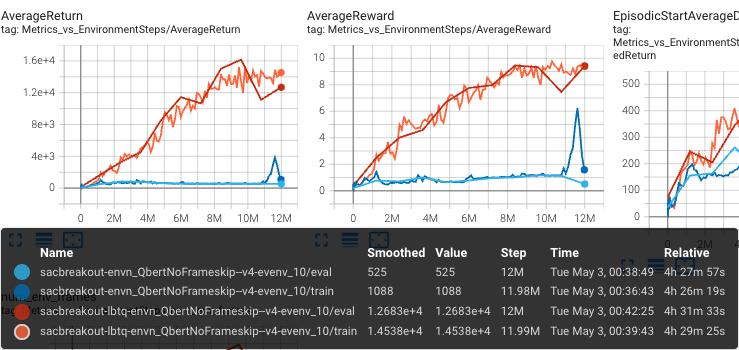
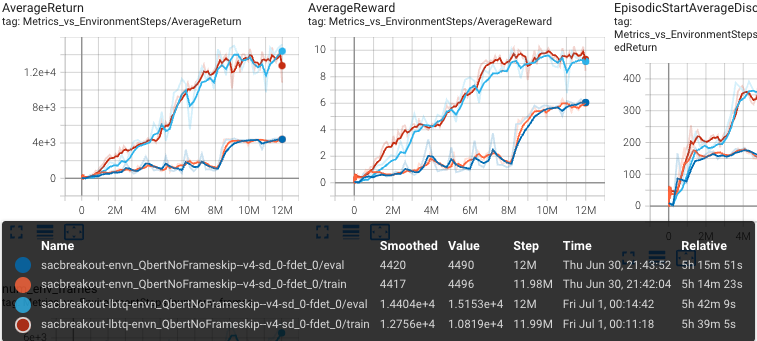
upload plots and update README

diff --git a/README.md b/README.md
@@ -27,7 +27,8 @@ Read the ALF documentation [here](https://alf.readthedocs.io/).
 |[QRSAC](alf/algorithms/qrsac_algorithm.py)|Off-policy RL|Dabney et al. "Distributional Reinforcement Learning with Quantile Regression" [arXiv:1710.10044](https://arxiv.org/abs/1710.10044)|
 |[SAC](alf/algorithms/sac_algorithm.py)|Off-policy RL|Haarnoja et al. "Soft Actor-Critic Algorithms and Applications" [arXiv:1812.05905](https://arxiv.org/abs/1812.05905)|
 |[OAC](alf/algorithms/oac_algorithm.py)|Off-policy RL|Ciosek et al. "Better Exploration with Optimistic Actor-Critic" [arXiv:1910.12807](https://arxiv.org/abs/1910.12807)|
-|[HER](https://github.com/HorizonRobotics/alf/blob/911d9573866df41e9e3adf6cdd94ee03016bf5a8/alf/algorithms/data_transformer.py#L672)|Off-policy RL|Andrychowicz et al. "Hindsight Experience Replay" [arXiv:1707.01495](https://arxiv.org/abs/1707.01495)|
+|[HER (HindsightExperienceTransformer)](alf/algorithms/data_transformer.py)|Off-policy RL|Andrychowicz et al. "Hindsight Experience Replay" [arXiv:1707.01495](https://arxiv.org/abs/1707.01495)|
+|[lbVT (LowerBoundedTDLoss)](alf/algorithms/td_loss.py)|Off-policy RL|Ciosek et al. "Faster Reinforcement Learning with Value Target Lower Bounding" [link](https://openreview.net/forum?id=bgAS1ZvveZ)|
 |[TAAC](alf/algorithms/taac_algorithm.py)|Off-policy RL|Yu et al. "TAAC: Temporally Abstract Actor-Critic for Continuous Control" [arXiv:2104.06521](https://arxiv.org/abs/2104.06521)|
 |[DIAYN](alf/algorithms/diayn_algorithm.py)|Intrinsic motivation/Exploration|Eysenbach et al. "Diversity is All You Need: Learning Diverse Skills without a Reward Function" [arXiv:1802.06070](https://arxiv.org/abs/1802.06070)|
 |[ICM](alf/algorithms/icm_algorithm.py)|Intrinsic motivation/Exploration|Pathak et al. "Curiosity-driven Exploration by Self-supervised Prediction" [arXiv:1705.05363](https://arxiv.org/abs/1705.05363)|
@@ -144,6 +145,15 @@ All the examples below are trained on a single machine Intel(R) Core(TM) i9-7960
 * [DDQN on Atari](alf/examples/dqn_breakout_conf.py).  Game "Q*Bert" performance.
 
   <img src="alf/examples/dqn_breakout_conf_Qbert.png" width = "600" height ="200" alt="Q*Bert-DDQN-training-curve"/>
+
+### lbVT
+* [DDQN with lowerbounded value target on Atari](alf/examples/dqn_breakout_conf.py).  Game "Q*Bert" performance.
+
+  <img src="alf/examples/dqn_breakout_conf-lbtq-Qbert.png" width = "600" height ="200" alt="Q*Bert-DDQN-lbVT-training-curve"/>
+
+* [SAC with lowerbounded value target on Atari](alf/examples/sac_breakout_conf.py).  Game "Q*Bert" performance.
+
+  <img src="alf/examples/sac_breakout_conf-lbtq-Qbert.png" width = "600" height ="200" alt="Q*Bert-SAC-lbVT-training-curve"/>
 
 ### DDPG
 * [FetchSlide (sparse rewards)](alf/examples/ddpg_fetchslide_conf.py). Need to install the [MuJoCo](https://www.roboti.us/index.html) simulator first. This example reproduces the performance of vanilla DDPG reported in the OpenAI's Robotics environment [paper](https://arxiv.org/pdf/1802.09464.pdf). Our implementation doesn't use MPI, but obtains (evaluation) performance on par with the original implementation. (*The original MPI implementation has 19 workers, each worker containing 2 environments for rollout and sampling a minibatch of size 256 from its replay buffer for computing gradients. All the workers' gradients will be summed together for a centralized optimizer step. Our implementation simply samples a minibatch of size 5000 from a common replay buffer per optimizer step.*) The training took about 1 hour with 38 (19*2) parallel environments on a single GPU.
